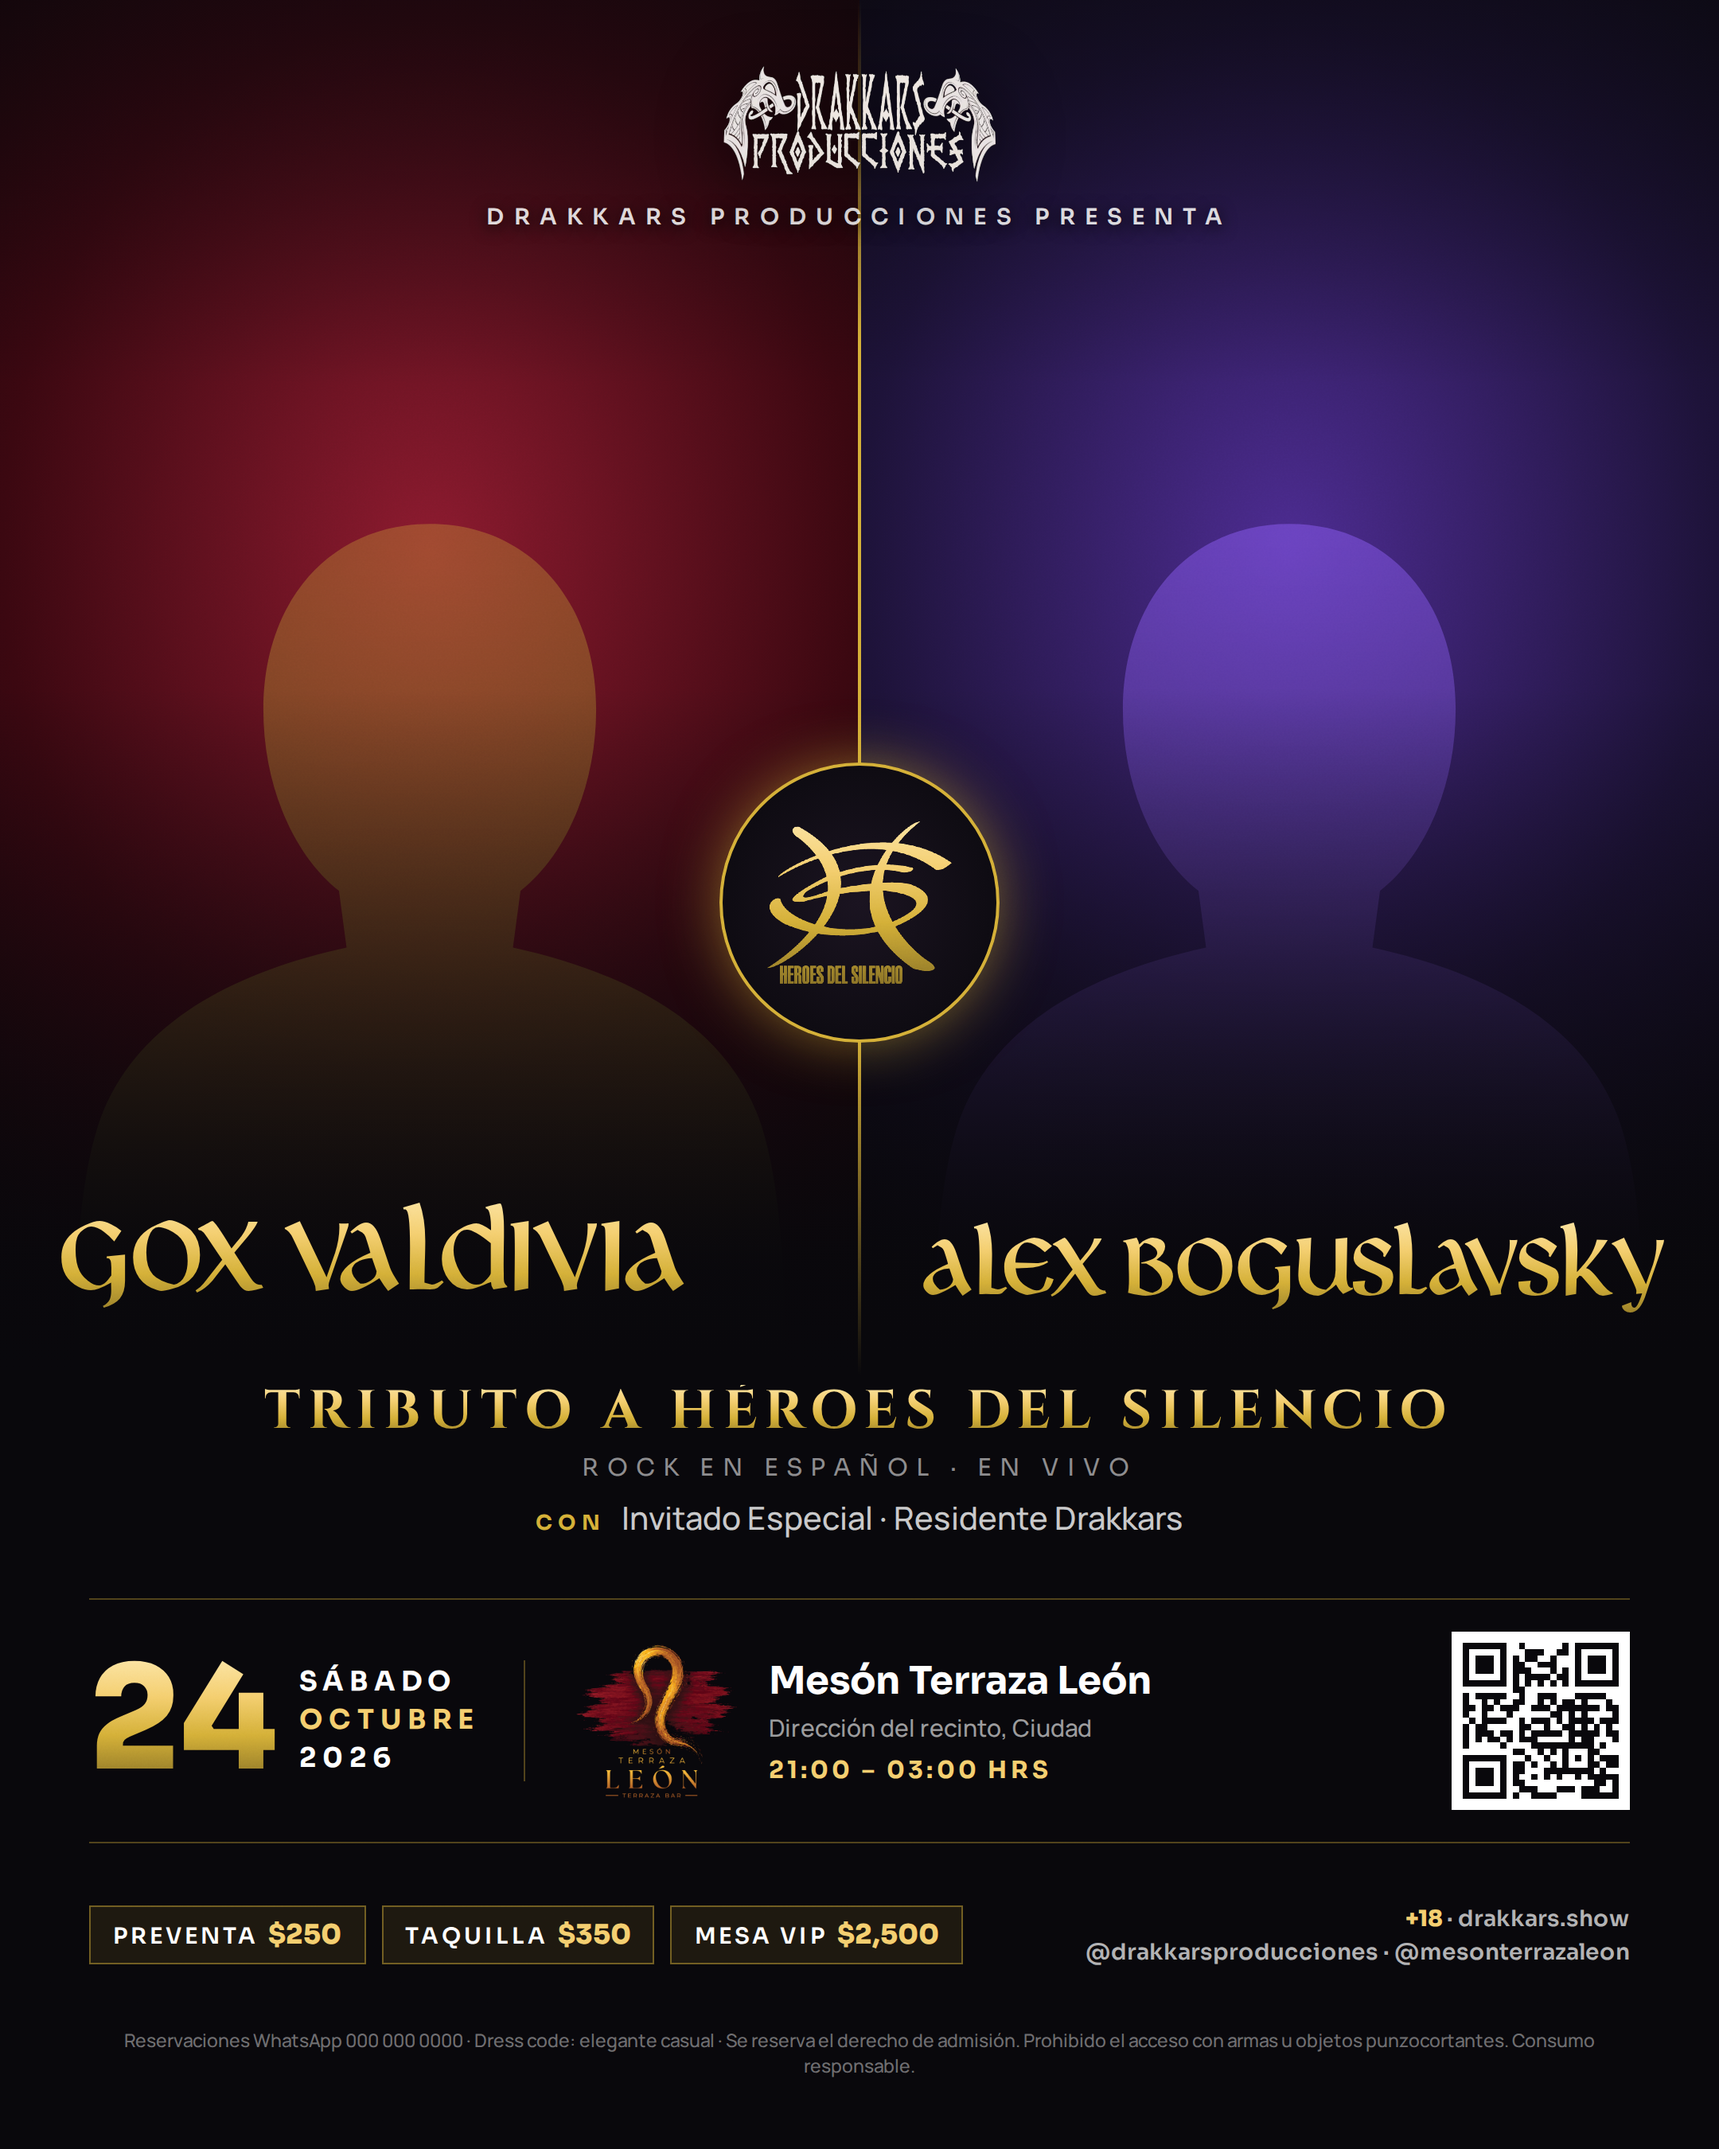
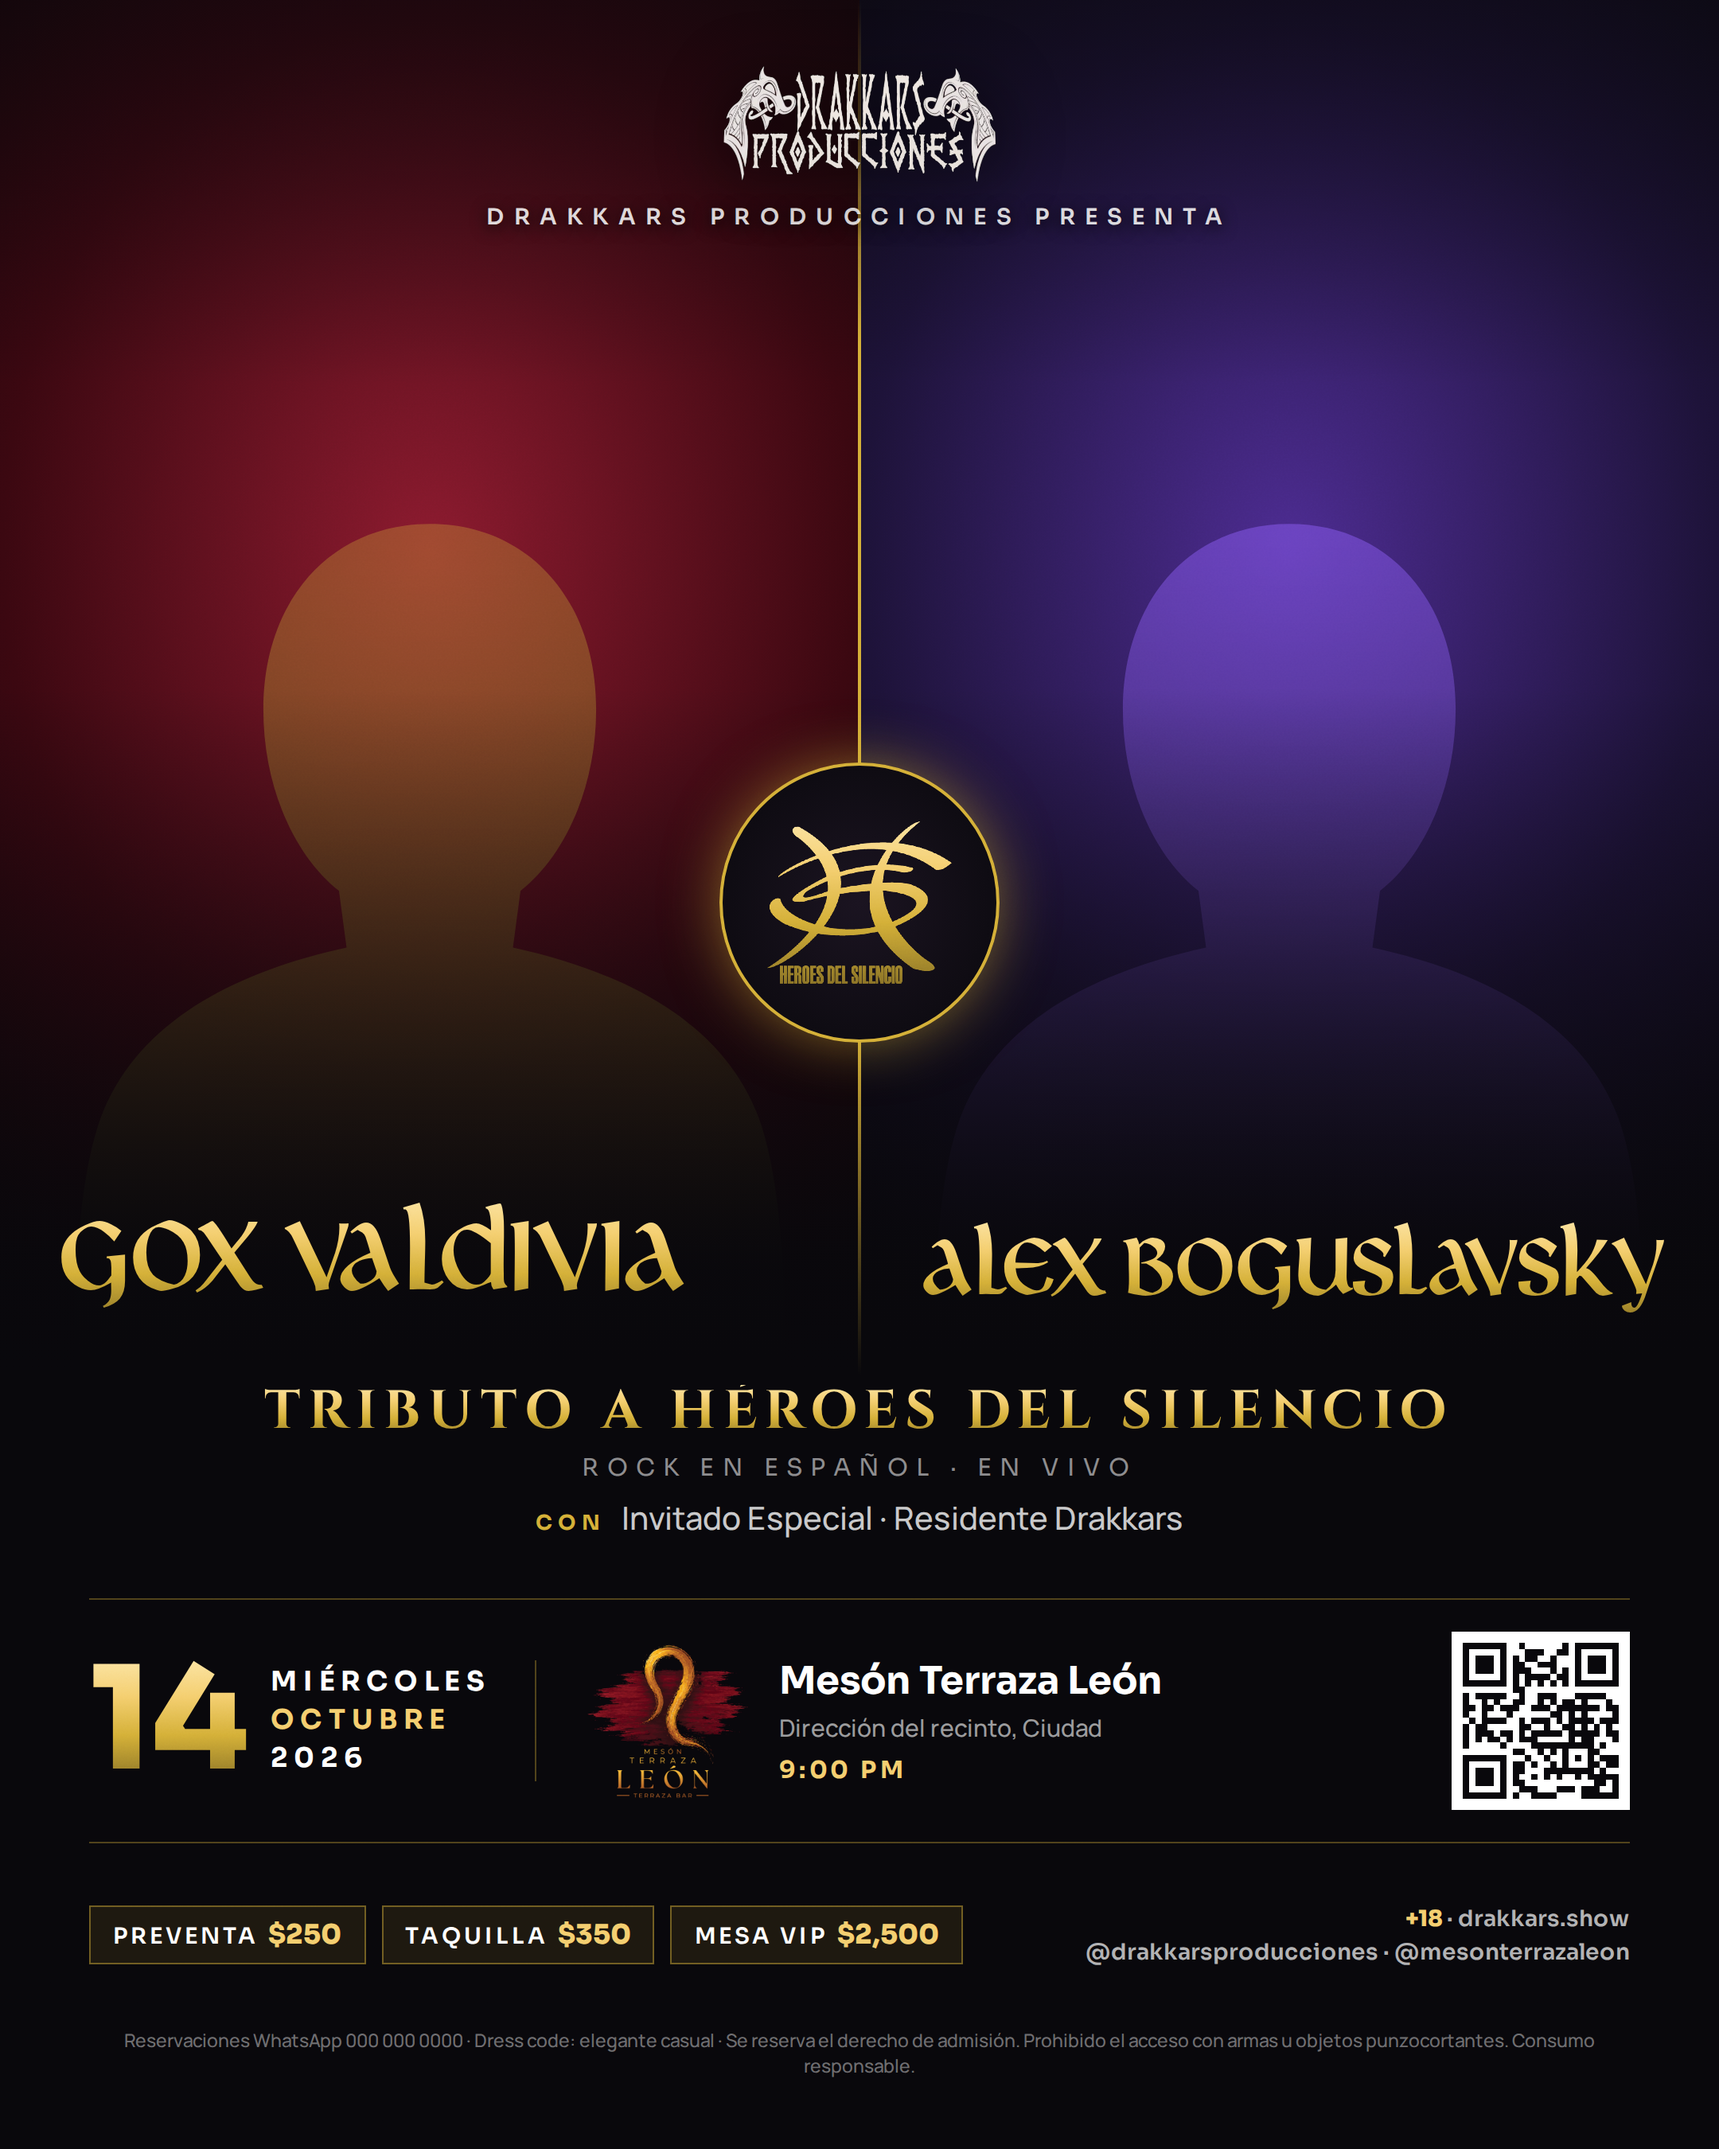
Flyers: set event date to Wed 14 Oct 2026, 9:00 PM
Only append the "hrs" suffix for 24-hour times so AM/PM times read
cleanly. Mockups re-rendered.

Claude-Session: https://claude.ai/code/session_01FHbxkynBZxSofdkjbFxcNF

Changed region(s): [[0.3412, 0.7467, 0.6824, 0.84], [0.062, 0.7778, 0.2792, 0.84]]

diff --git a/flyers/flyer.html b/flyers/flyer.html
@@ -378,6 +378,8 @@
   const dayShort = esc((E.dayName || "").slice(0, 3));
   const monShort = esc((E.month || "").slice(0, 3));
   const hours = [E.doors, E.endTime].filter(has).map(esc).join(" – ");
+  // Sufijo "hrs" solo para horario de 24 h (no para "9:00 PM")
+  const hrs = /\b[ap]\.?\s?m\.?$/i.test(hours) ? "" : " hrs";
   const supportTxt = (E.support || []).filter(has).map(esc).join(" · ");
   const LOGO_D = "assets/drakkars-logo.png";
   const LOGO_M = "assets/meson-terraza-leon.png";
@@ -542,7 +544,7 @@
         </div>
         <div class="grid">
           <div class="date"><div class="d gold-text">${esc(E.day)}</div><div class="dm">${esc(E.dayName)}<br><span>${esc(E.month)}</span><br>${esc(E.year)}</div></div>
-          <div class="where"><img src="${LOGO_M}" alt=""><div><div class="val">${esc(E.venue)}<small>${esc(E.address)}</small></div><div class="time">${hours} HRS</div></div></div>
+          <div class="where"><img src="${LOGO_M}" alt=""><div><div class="val">${esc(E.venue)}<small>${esc(E.address)}</small></div><div class="time">${hours}${hrs.toUpperCase()}</div></div></div>
           ${qr()}
         </div>
         <div class="bottom">
@@ -573,7 +575,7 @@
         <div class="kicker">${mark()}<div>${opt(has(E.kicker), `<div class="k2">${esc(E.kicker)}</div>`)}${opt(has(E.title), `<div class="t gold-text">${esc(E.title)}</div>`)}<div class="s">${esc(E.subtitle)}</div></div></div>
         <div class="names">${blocks}</div>
         <div class="table">
-          <div class="cell"><div class="k">Fecha</div><div class="val">${esc(E.dayName)} ${esc(E.day)} de ${esc(E.month)}<small>Puertas ${hours} hrs</small></div></div>
+          <div class="cell"><div class="k">Fecha</div><div class="val">${esc(E.dayName)} ${esc(E.day)} de ${esc(E.month)}<small>Puertas ${hours}${hrs}</small></div></div>
           <div class="cell"><div class="k">Lugar</div><div class="val">${esc(E.venue)}<small>${esc(E.address)}</small></div></div>
           ${opt(has(supportTxt), `<div class="cell"><div class="k">Warm-up</div><div class="val">${supportTxt}</div></div>`)}
           <div class="cell"><div class="k">Info</div><div class="val">${esc(E.capacity)}<small>${[E.dressCode, E.reservations].filter(has).map(esc).join(" · ")}</small></div></div>
@@ -624,7 +626,7 @@
         </div>
         ${opt(has(supportTxt), `<div class="support">con ${supportTxt}</div>`)}
         <div class="datebox">
-          <div>${esc(E.dayName)}<small>${hours} hrs</small></div>
+          <div>${esc(E.dayName)}<small>${hours}${hrs}</small></div>
           <div class="d gold-text">${esc(E.day)}</div>
           <div>${esc(E.month)}<small>${esc(E.year)}</small></div>
         </div>

diff --git a/flyers/event.js b/flyers/event.js
@@ -34,12 +34,12 @@ window.EVENT = {
   support: ["Invitado Especial", "Residente Drakkars"],
 
   // Fecha y horario
-  dayName: "Sábado",
-  day: "24",
+  dayName: "Miércoles",
+  day: "14",
   month: "Octubre",
   year: "2026",
-  doors: "21:00",
-  endTime: "03:00",
+  doors: "9:00 PM",
+  endTime: "",
 
   // Lugar
   venue: "Mesón Terraza León",
